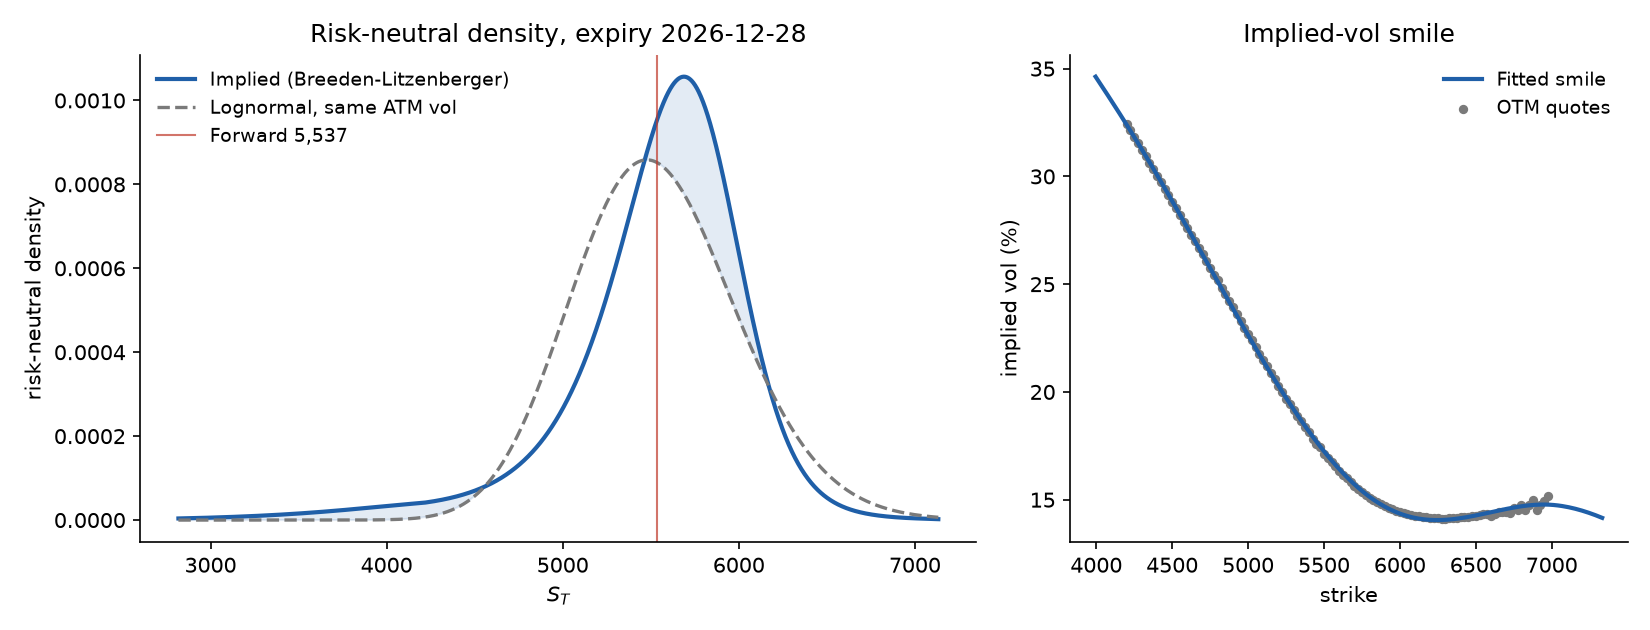
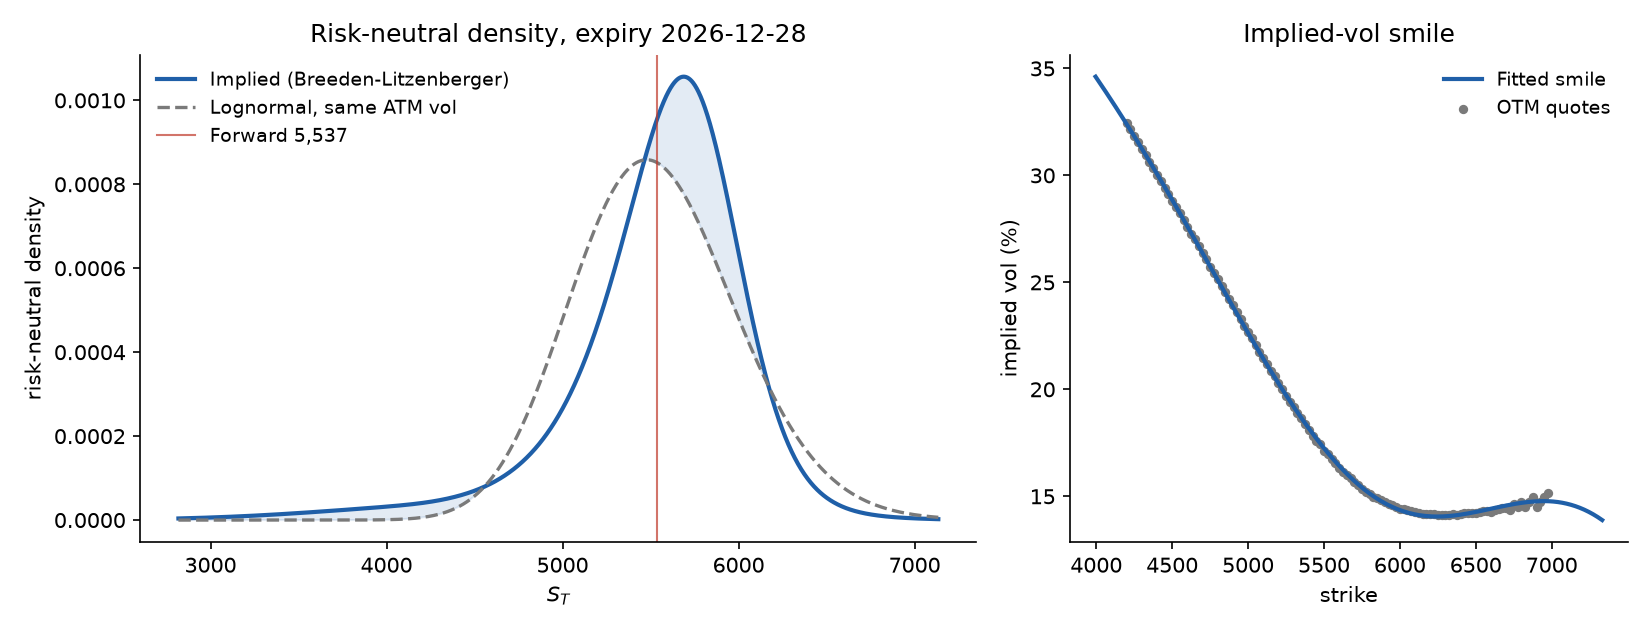
Make the wing extension C^3 so the density has no kink at the quote edge
The C^2 join kept the density continuous but its slope jumped where the
fitted smile hands over to the extrapolation, visible near 4,200 in the
example. Matching the third derivative removes it.

diff --git a/src/rnd/density.py b/src/rnd/density.py
@@ -25,18 +25,18 @@ class Smile:
 
     Inside the quoted range w is a polynomial (``method="poly"``) or a smoothing spline
     (``method="spline"``); total variance is much closer to polynomial than vol is, and its
-    wings are close to linear. Outside, w continues from the edge as
-    ``w_e + s1 d + s2 tau^2 (d/tau - 1 + e^{-d/tau})`` (d = distance from the edge) with s1, s2
-    the edge slope and curvature. The extension is C^2 (no kink or jump in the implied density
-    at the edge) and its curvature dies out, so w ends up linear in log-strike, the behaviour
-    Lee's moment formula requires of the wings.
+    wings are close to linear. Outside, w continues from the edge (d = distance from the edge)
+    with curvature ``w''(d) = (s2 + (s3 + s2/tau) d) e^{-d/tau}``, where s1, s2, s3 are the
+    edge's first three derivatives. The extension is C^3, so the implied density is continuous
+    and has no kink at the edge, and its curvature dies out, so w ends up linear in log-strike,
+    the behaviour Lee's moment formula requires of the wings.
     """
 
     def __init__(self, k, iv, T, method="poly", degree=5, smoothing=None, tau=0.1):
         k, w = np.asarray(k, float), np.asarray(iv, float) ** 2 * T
         if method == "poly":
             p = Polynomial.fit(k, w, degree)
-            self._core, self._d, self._d2 = p, p.deriv(), p.deriv(2)
+            self._core, self._d, self._d2, self._d3 = p, p.deriv(), p.deriv(2), p.deriv(3)
         elif method == "spline":
             # smoothing budget: quote noise of ~0.3 vol points at the ATM variance level
             if smoothing is None:
@@ -44,6 +44,7 @@ class Smile:
             s = smoothing
             sp = UnivariateSpline(k, w, k=3, s=s)
             self._core, self._d, self._d2 = sp, sp.derivative(), sp.derivative(2)
+            self._d3 = sp.derivative(3)
         else:
             raise ValueError("method must be 'poly' or 'spline'")
         self.k0, self.k1, self.tau, self.T, self.method = k.min(), k.max(), tau, T, method
@@ -51,8 +52,12 @@ class Smile:
     def _extension(self, edge, sign, d):
         """Outward continuation of total variance from ``edge``; sign +1 right, -1 left."""
         w0, s1, s2 = float(self._core(edge)), sign * float(self._d(edge)), float(self._d2(edge))
+        s3 = sign * float(self._d3(edge))
         t = self.tau
-        return w0 + s1 * d + s2 * t * t * (d / t - 1 + np.exp(-d / t))
+        e = np.exp(-d / t)
+        f = t * t * (d / t - 1 + e)  # double integral of e^{-d/t}
+        g = t * t * d - 2 * t**3 + t * t * d * e + 2 * t**3 * e  # double integral of d e^{-d/t}
+        return w0 + s1 * d + s2 * f + (s3 + s2 / t) * g
 
     def __call__(self, k):
         k = np.asarray(k, float)

diff --git a/README.md b/README.md
@@ -16,26 +16,26 @@ Second derivatives of raw market quotes are dominated by noise, so the code does
 
 1. Estimate the forward $F$ from put-call parity, $F = K + e^{rT}(C - P)$.
 2. Take the out-of-the-money option at each strike and invert Black-76 for its implied vol.
-3. Fit a smooth smile to total variance $\sigma^2 T$ as a polynomial (or smoothing spline) in $k = \ln(K/F)$, with a $C^2$ extension beyond the quoted strikes.
+3. Fit a smooth smile to total variance $\sigma^2 T$ as a polynomial (or smoothing spline) in $k = \ln(K/F)$, with a $C^3$ extension beyond the quoted strikes.
 4. Rebuild call prices on a fine strike grid from the smooth smile and take the second difference.
 5. Clip negative density, report the integral before renormalising, then renormalise to 1.
 
 ## Quickstart
 
 ```bash
-uv sync                      # add --extra data for the yfinance loader
+uv sync                      # add --extra data for the yfinance loader (experimental)
 uv run rnd fit examples/spx_like.csv --rate 0.04 --asof 2026-09-28 --spot 5500 --plot out.png
 ```
 
 ```
 Forward                 5,537.07
 ATM implied vol         16.93%
-Integral before renorm  0.9985
-Mean                    5,541.54
-Std dev                 509.57
-Skewness                -1.284
-Excess kurtosis         3.421
-P(S_T < 0.90 * S0)      10.03%
+Integral before renorm  0.9988
+Mean                    5,540.80
+Std dev                 511.48
+Skewness                -1.303
+Excess kurtosis         3.495
+P(S_T < 0.90 * S0)      10.05%
 P(S_T > 1.10 * S0)      11.08%
 ```
 
